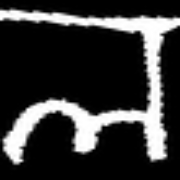
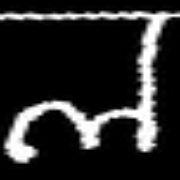
Added preprocessing images for kamal word

Changed region(s): [[0.0, 0.0278, 1.0, 0.9167]]

diff --git a/segmentedchar.py b/segmentedchar.py
@@ -65,9 +65,15 @@ model = tf.keras.models.load_model(modelpath)
 def predict(imagepath, output_dir):
     gray_img = helpers.load_image(imagepath) 
     print(gray_img.shape)
+
     adap_threshold_img = helpers.remove_noise_and_preprocess(gray_img)
+    adap_threshold_img_path = os.path.join("./segmented_characters/", f'adap_thresh_img.png')
+    cv2.imwrite(adap_threshold_img_path, adap_threshold_img)
+
     otsu_threshold_img = helpers.preprocess(gray_img)
-    
+    otsu_threshold_img_path = os.path.join("./segmented_characters/", f'otsu_thresh_img.png')
+    cv2.imwrite(otsu_threshold_img_path, otsu_threshold_img)
+
     # Perform bitwise and on both adaptive threshold image and otsu threhold image
     # and again store in otsu threshold image
     for i in range(otsu_threshold_img.shape[0]):
@@ -165,7 +171,7 @@ def predict(imagepath, output_dir):
 
             char_img_path = os.path.join(output_dir, f'char_{i}.png')
             cv2.imwrite(char_img_path, roi)
-
+            
     ls=[]
     for char in character:
         pred=helpers.predictchar(char, model)
@@ -174,7 +180,7 @@ def predict(imagepath, output_dir):
     return ls
 
 def test():
-    image_paths = ['./SampleImages/kamal.jpeg']
+    image_paths = ['./SampleImages/kamal2.jpeg']
     output_dir = './segmented_characters/'
     os.makedirs(output_dir, exist_ok=True)
 
